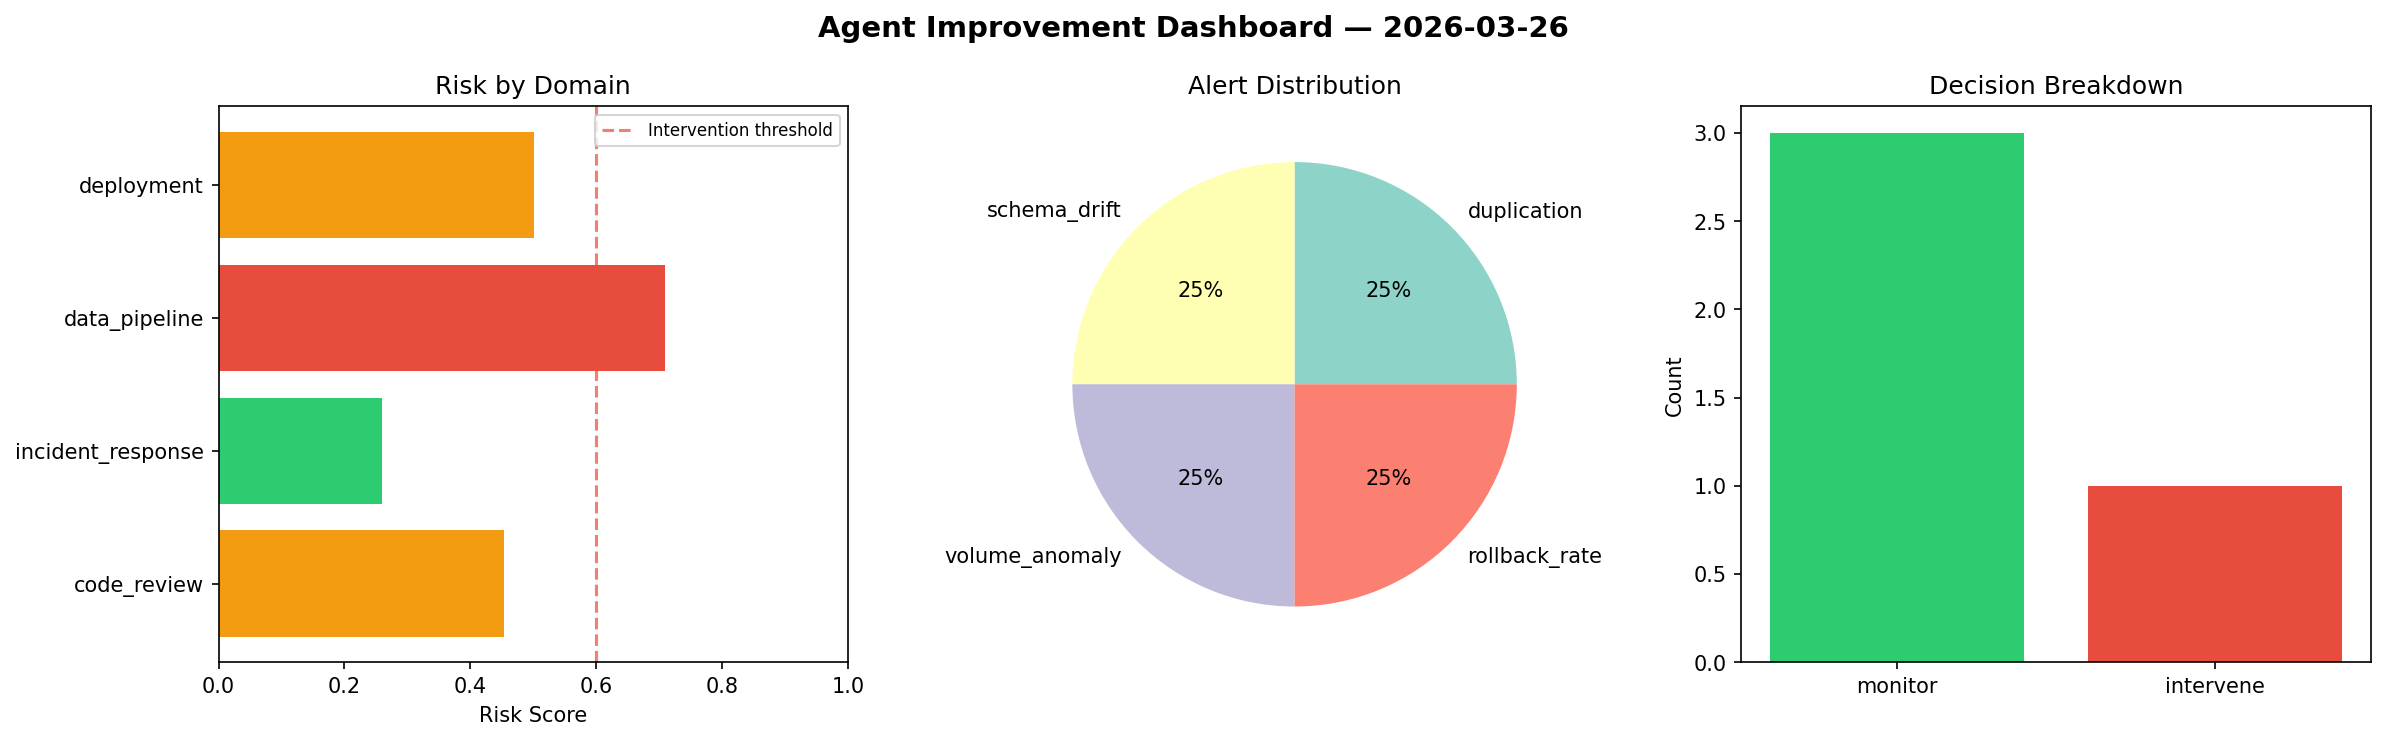
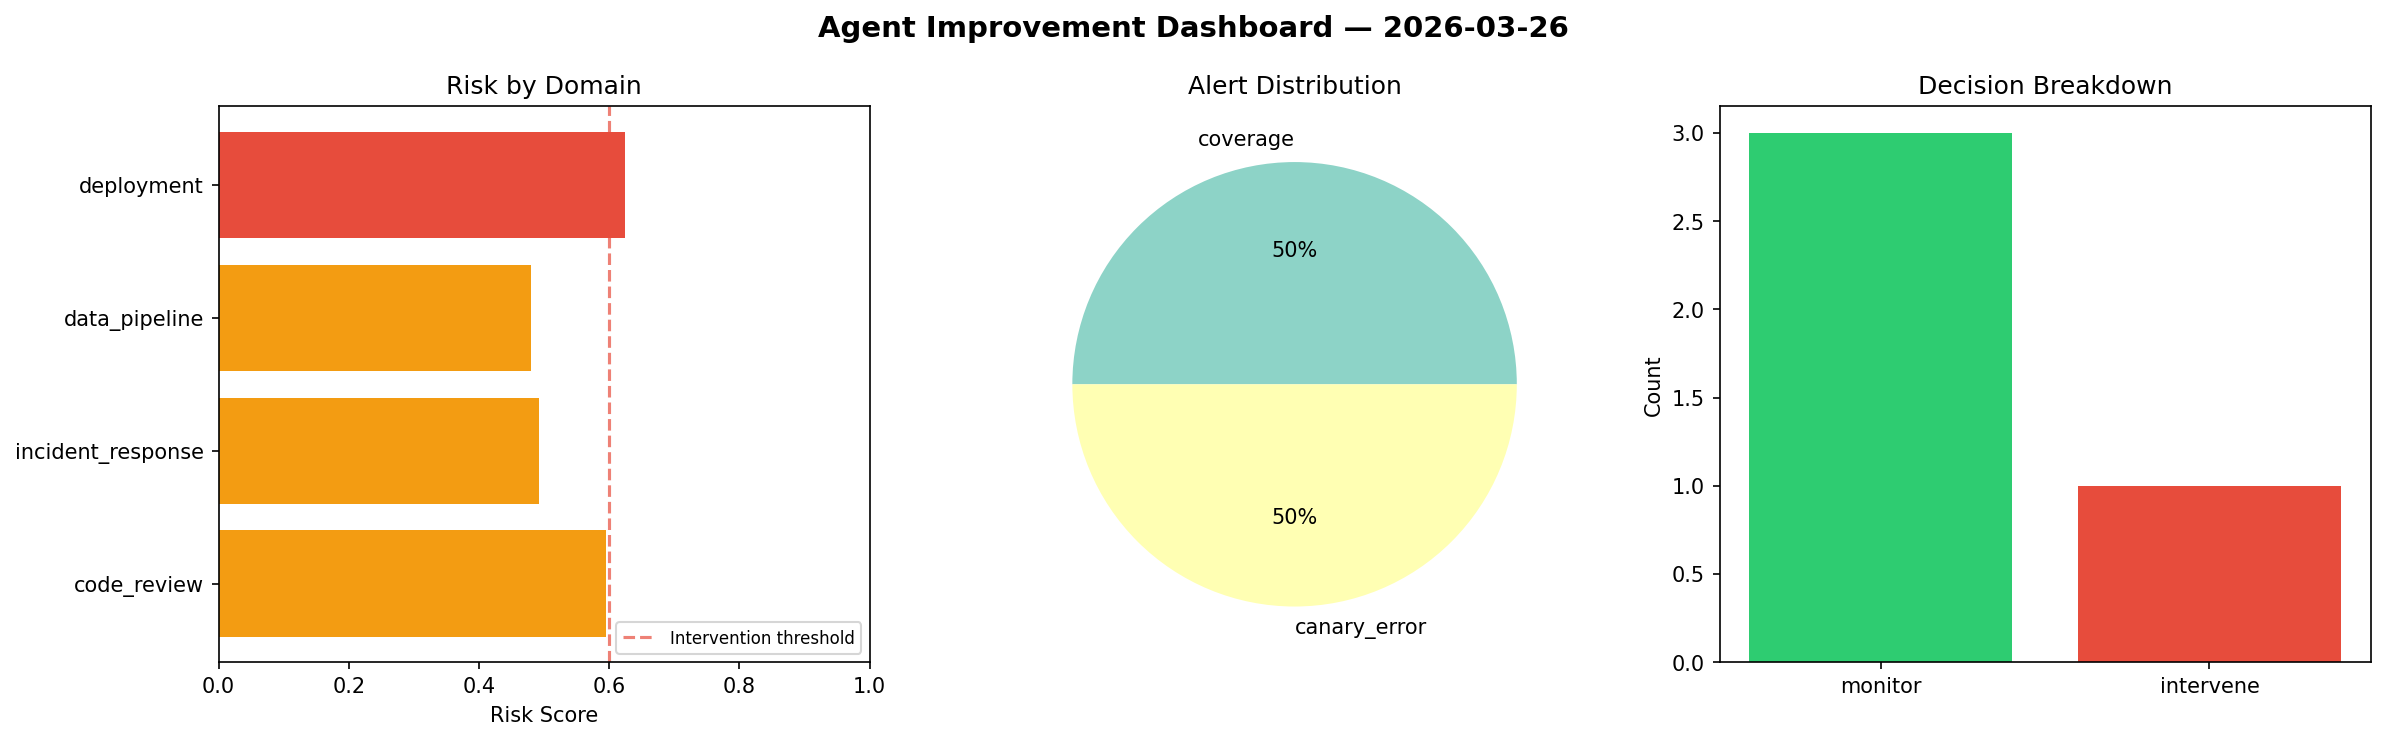
agent-improvement: daily cycle 2026-03-26T15:41

diff --git a/logs/2026-03-26.md b/logs/2026-03-26.md
@@ -1,6 +1,6 @@
 # Agent Improvement Report — 2026-03-26
 
-**Cycle ID:** `f2c24c88` | **Avg Risk:** 0.481 | **Interventions:** 1/4
+**Cycle ID:** `edf953cf` | **Avg Risk:** 0.5475 | **Interventions:** 1/4
 
 ![Dashboard](2026-03-26_dashboard.png)
 
@@ -10,18 +10,18 @@
 
 | Domain | Risk Score | Decision | Alerts |
 |--------|-----------|----------|--------|
-| code_review | 0.454 | monitor | duplication |
-| incident_response | 0.2589 | monitor | none |
-| data_pipeline | 0.7095 | intervene | schema_drift, volume_anomaly |
-| deployment | 0.5015 | monitor | rollback_rate |
+| code_review | 0.595 | monitor | coverage |
+| incident_response | 0.4918 | monitor | none |
+| data_pipeline | 0.4792 | monitor | none |
+| deployment | 0.6242 | intervene | canary_error |
 
 ## Delta vs Yesterday
 
 | Domain | Today | Yesterday | Change |
 |--------|-------|-----------|--------|
-| code_review | 0.454 | 0.7146 | 📉 -36.5% |
-| incident_response | 0.2589 | 0.7299 | 📉 -64.5% |
-| data_pipeline | 0.7095 | 0.7167 | 📉 -1.0% |
-| deployment | 0.5015 | 0.4773 | 📈 5.1% |
+| code_review | 0.595 | 0.7146 | 📉 -16.7% |
+| incident_response | 0.4918 | 0.7299 | 📉 -32.6% |
+| data_pipeline | 0.4792 | 0.7167 | 📉 -33.1% |
+| deployment | 0.6242 | 0.4773 | 📈 30.8% |
 
 **Refinement:** `{'adjustment': 'tighten_thresholds', 'trend': 'degrading', 'window': 4}`
